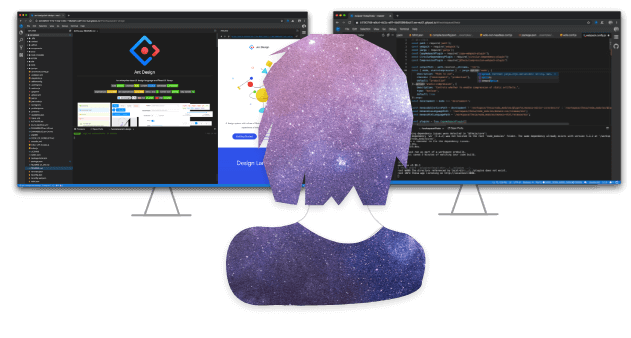
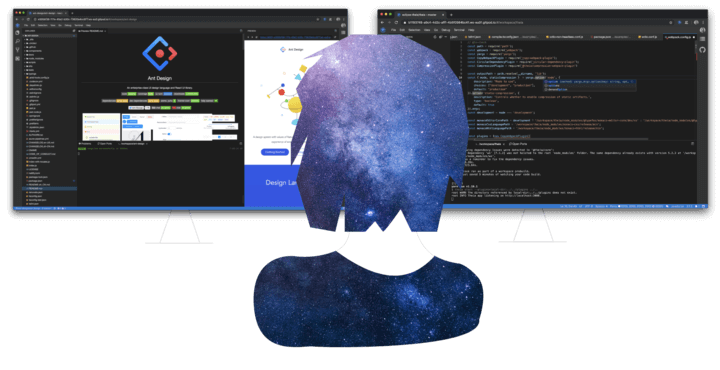
update parallel-workspaces image.

diff --git a/src/utils/features.tsx b/src/utils/features.tsx
@@ -12,7 +12,7 @@ import IconLanguage from '../resources/icon-language.svg'
 import VSCodeExtensions from '../resources/vscode-extensions.png'
 import LinuxTerminal from '../resources/linux-terminal.png'
 import PrebuiltWorkspaces from '../resources/prebuilt-workspaces.svg'
-import ParallelWorkspaces from '../resources/parallel-workspaces.svg'
+import ParallelWorkspaces from '../resources/parallel-workspaces.png'
 import CodeReview from '../resources/code-review.png'
 import SupportedLanguages from '../resources/supported-languages.svg'
 import ShareWorkspaces from '../resources/share-workspace.svg'

diff --git a/src/styles/normalize.ts b/src/styles/normalize.ts
@@ -349,7 +349,8 @@ export default `
     /* ----- Images ----- */
     /* ------------------------------------------- */
 
-    img {
+    img, 
+    object {
         object-fit: contain;
     }
 
